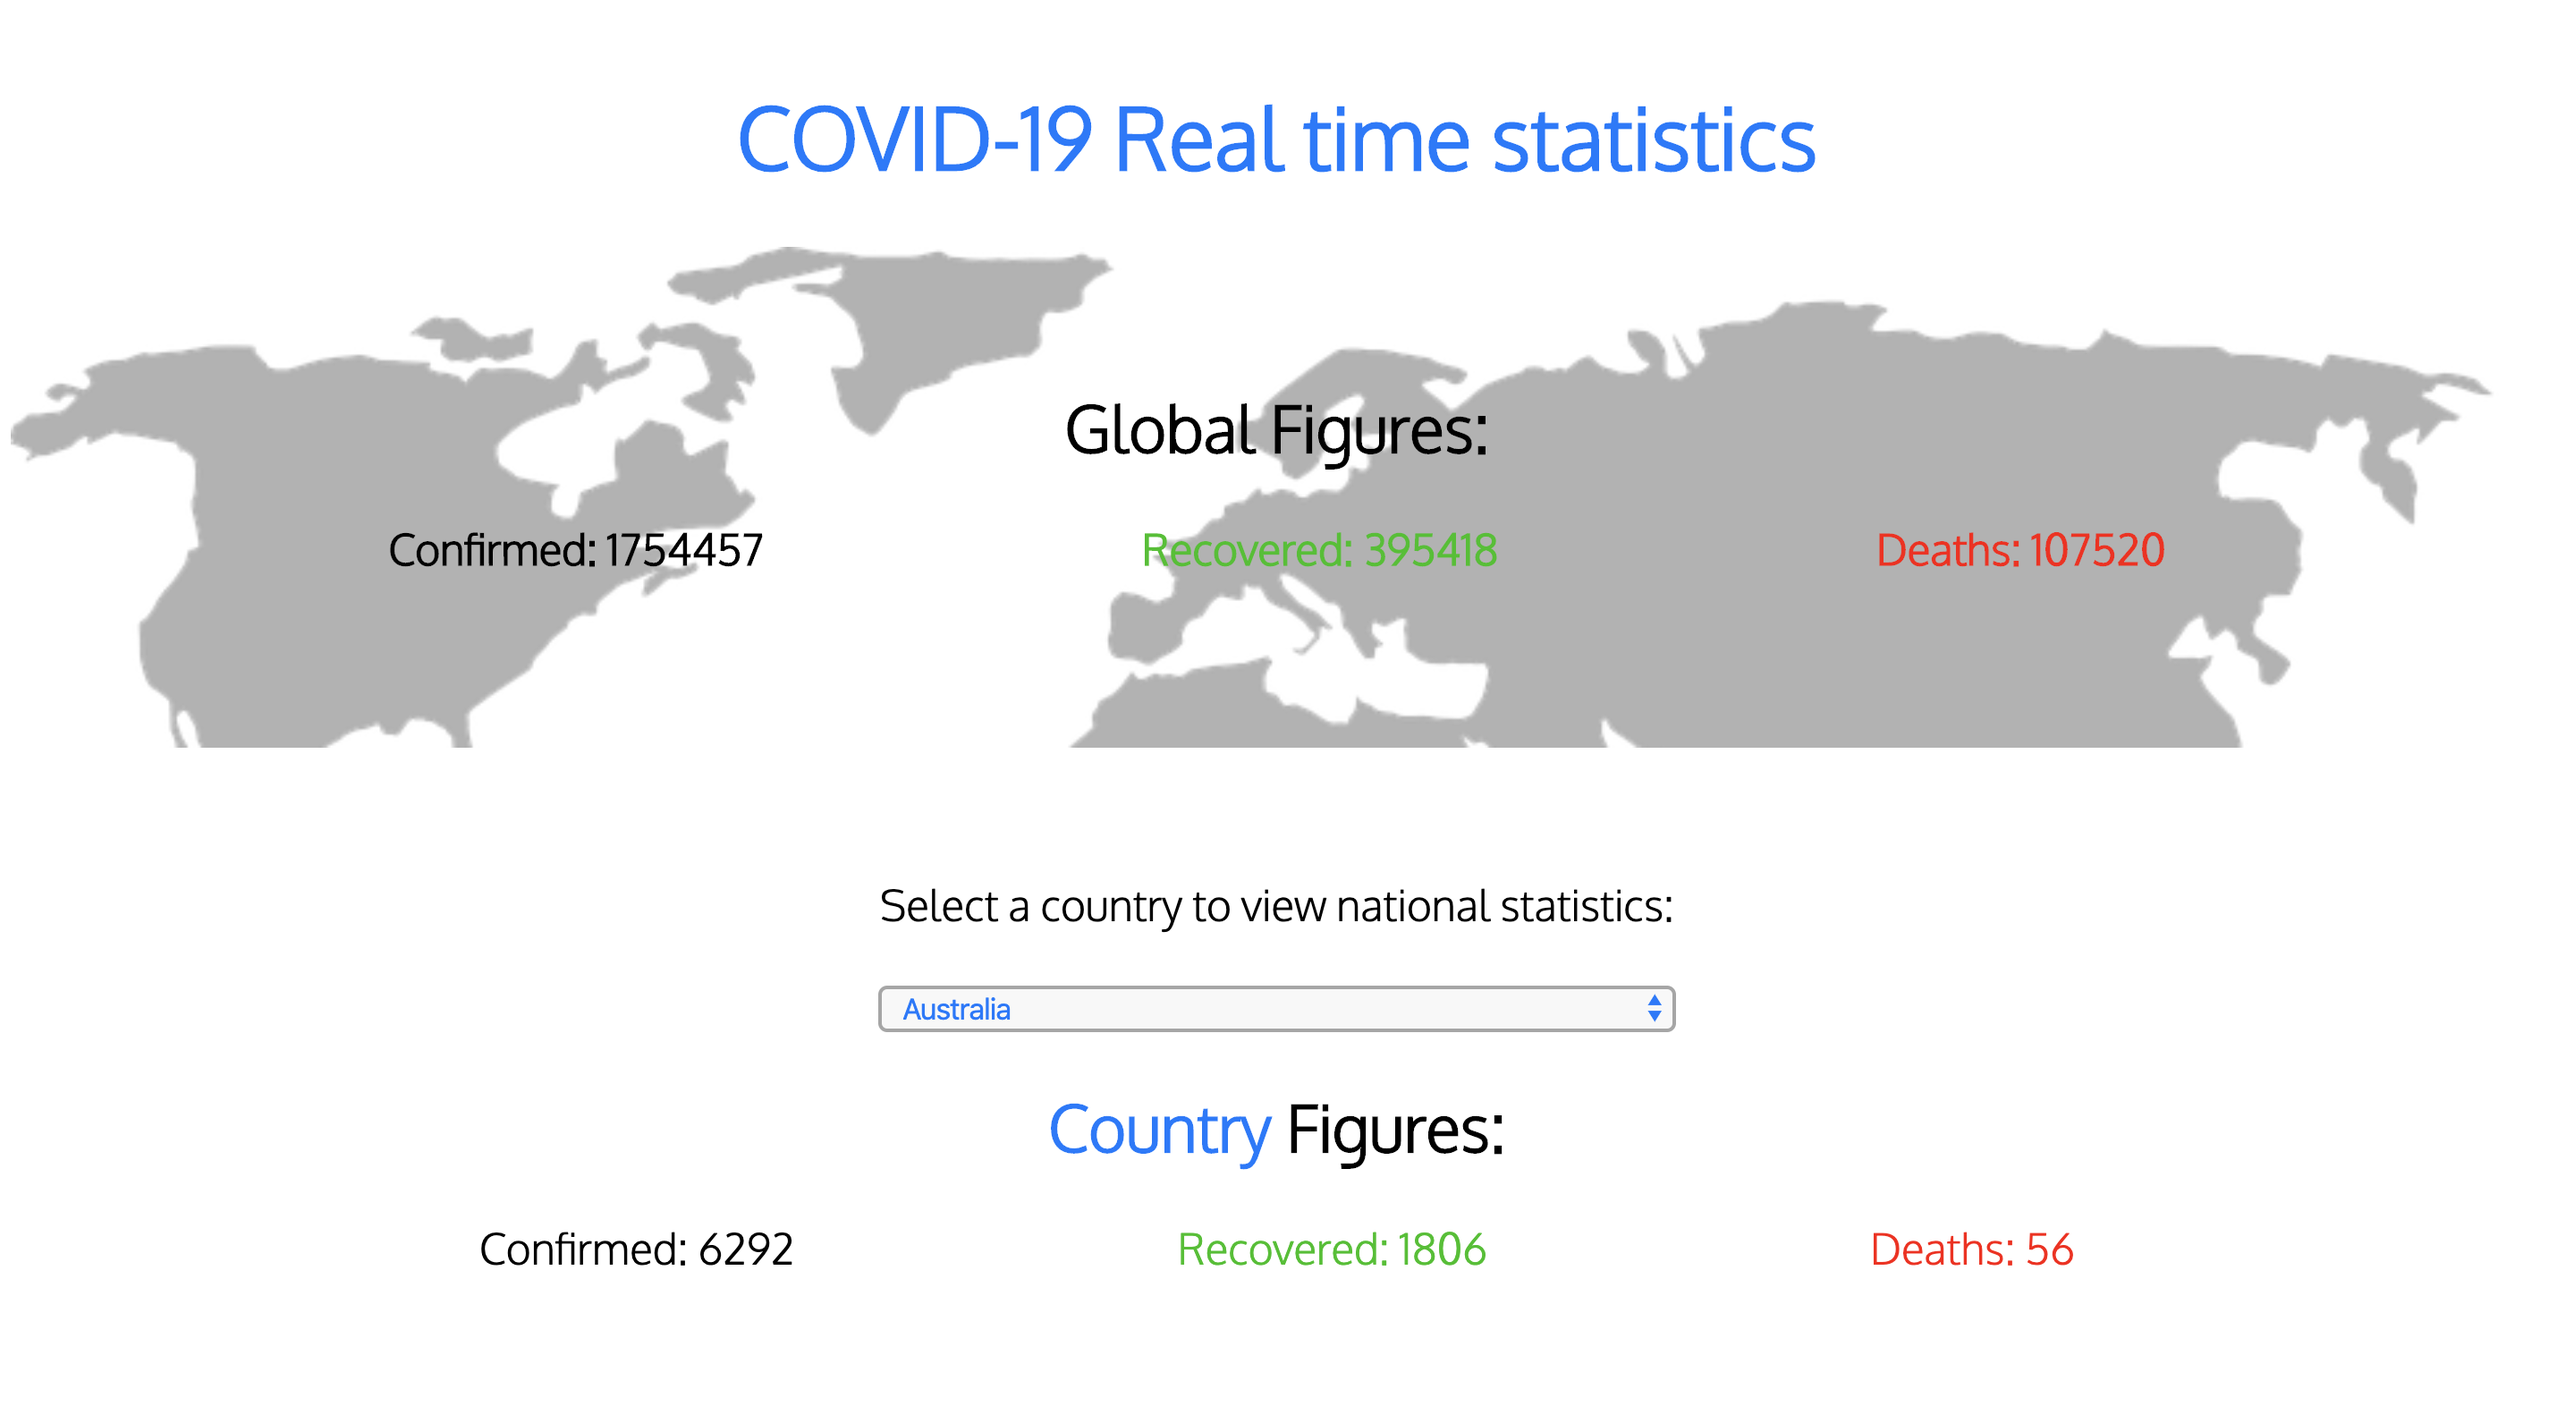
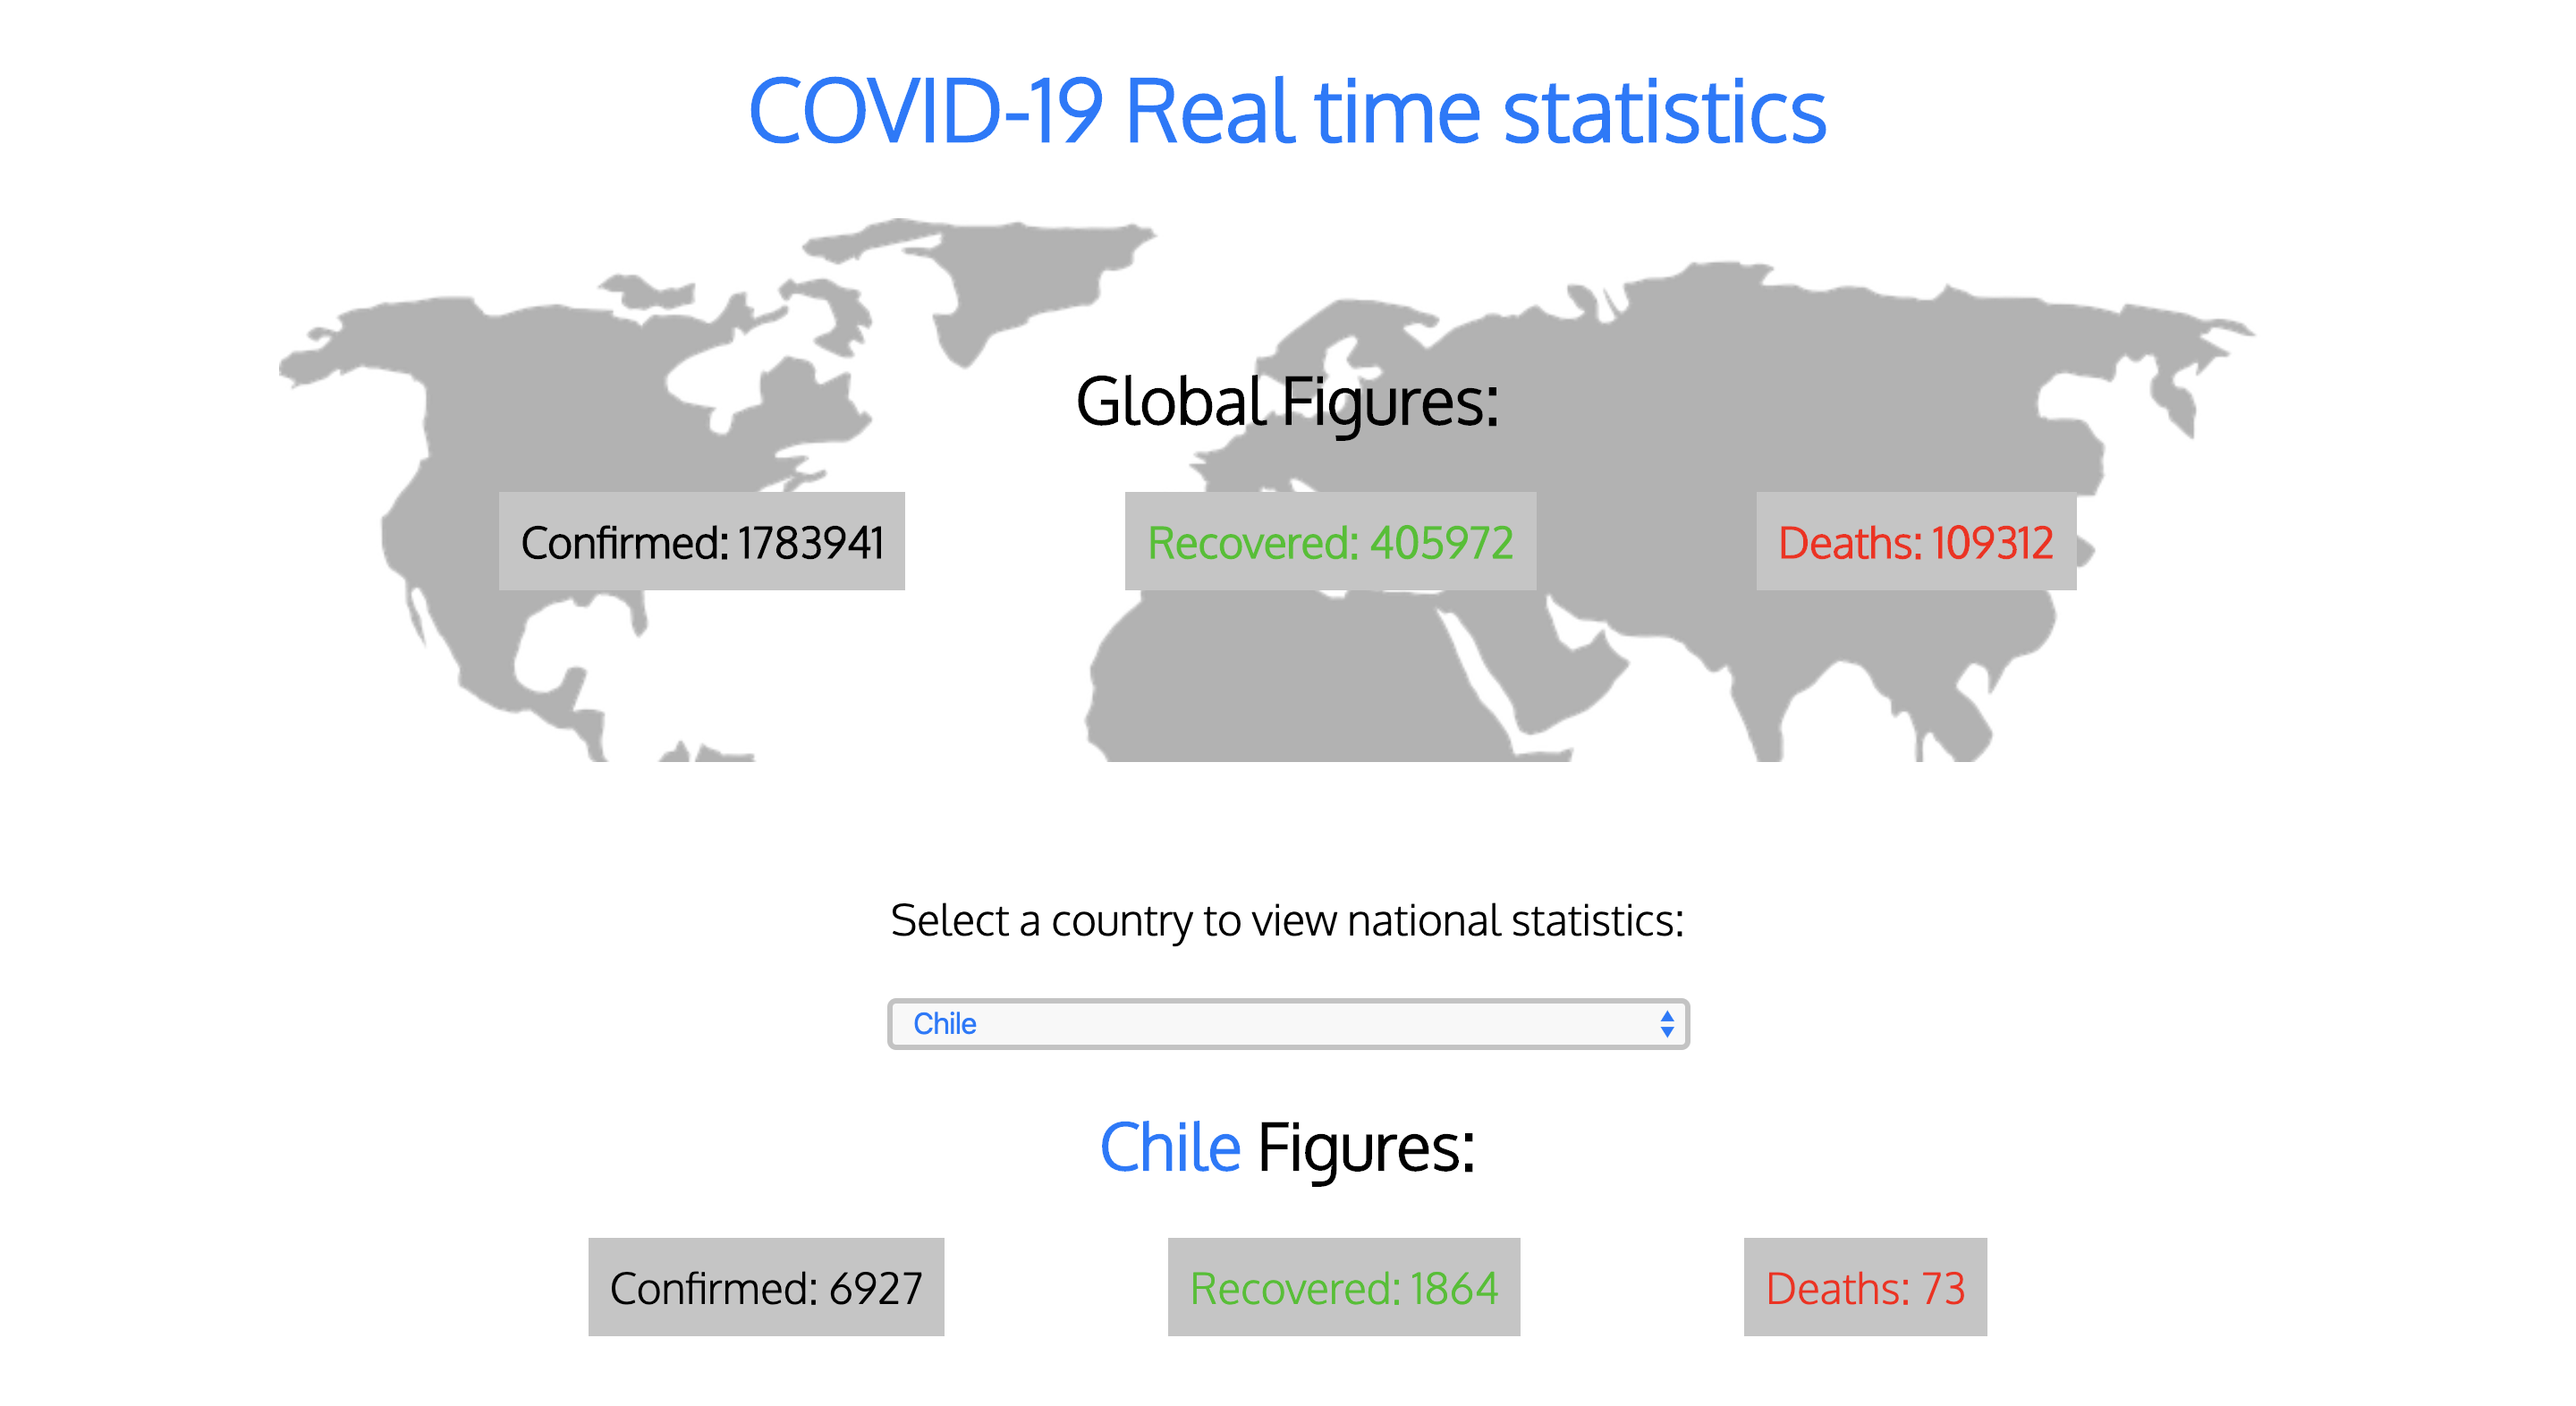
add styles, add component Figures

diff --git a/src/components/CountryData.jsx b/src/components/CountryData.jsx
@@ -1,25 +1,21 @@
 import React from "react";
 import { connect } from "react-redux";
 import { getCountryData } from "../actions";
+import Figures from "./Figures";
 
 class CountryData extends React.Component {
   render() {
     const { confirmed, recovered, deaths } = this.props.countryData;
-    if (!this.props.country) {
+    const { country } = this.props;
+    if (!country) {
       return <div className="select-country__choose">Select a country</div>;
     }
-    // TODO: Add confirmed, recovered, deaths as a component takes figs as props - with card-like styles
-    // TODO: set country figures </h2> to: ${countryName} figures
     return (
       <div>
         <h2>
-          <span className="text-blue">Country</span> Figures:
+          <span className="text-blue">{country}</span> Figures:
         </h2>
-        <div className="global-figs-flex">
-          <div>Confirmed: {confirmed}</div>
-          <div className="text-green">Recovered: {recovered}</div>
-          <div className="text-red">Deaths: {deaths}</div>
-        </div>
+        <Figures confirmed={confirmed} recovered={recovered} deaths={deaths} />
       </div>
     );
   }

diff --git a/src/components/Global.jsx b/src/components/Global.jsx
@@ -1,26 +1,23 @@
 import React from "react";
 import { getData } from "../actions";
 import { connect } from "react-redux";
-
+import Figures from "../components/Figures";
 class Global extends React.Component {
   componentDidMount() {
     this.props.getData();
   }
 
   render() {
+    const { globalData } = this.props;
     return (
       <div className="global-figs__component">
         <div className="global-figs__background text-bold">
           <h2>Global Figures:</h2>
-          <div className="global-figs-flex">
-            <div>Confirmed: {this.props.globalData.confirmed}</div>
-            <div className="text-green">
-              Recovered: {this.props.globalData.recovered}
-            </div>
-            <div className="text-red">
-              Deaths: {this.props.globalData.deaths}
-            </div>
-          </div>
+          <Figures
+            confirmed={globalData.confirmed}
+            recovered={globalData.recovered}
+            deaths={globalData.deaths}
+          />
         </div>
       </div>
     );

diff --git a/src/styles/styles.css b/src/styles/styles.css
@@ -35,11 +35,6 @@
 }
 
 /* GLOBAL FIGURES */
-.global-figs-flex {
-  display: flex;
-  flex-direction: row;
-  justify-content: space-evenly;
-}
 .global-figs__component {
   width: 100%;
 }
@@ -71,4 +66,25 @@
 }
 .select-country__select-box {
   padding: 0.3em;
+  border: 2px solid rgb(195, 195, 195);
+}
+.select-country__select-box:focus {
+  outline: none;
+}
+
+/* FIGURES */
+.figures__component {
+  display: flex;
+  flex-direction: row;
+  justify-content: space-evenly;
+}
+.figures__card {
+  background: rgb(197, 197, 197);
+  padding: 0.5em;
+}
+
+@media screen and (min-width: 900px) {
+  .container {
+    margin: 0 10vw;
+  }
 }

diff --git a/src/components/Figures.jsx b/src/components/Figures.jsx
@@ -1,0 +1,13 @@
+import React from "react";
+
+const Figures = ({ confirmed, recovered, deaths }) => {
+  return (
+    <div className="figures__component">
+      <div className="figures__card">Confirmed: {confirmed}</div>
+      <div className="figures__card text-green">Recovered: {recovered}</div>
+      <div className="figures__card text-red">Deaths: {deaths}</div>
+    </div>
+  );
+};
+
+export default Figures;

diff --git a/src/components/SelectCountry.jsx b/src/components/SelectCountry.jsx
@@ -31,10 +31,10 @@ class SelectCountry extends React.Component {
   };
 
   handleCountrySelect = e => {
-    this.setState({ value: e.target.value }, this.handleSubmit);
+    this.setState({ value: e.target.value }, this.handleCountrySelectSubmit);
   };
 
-  handleSubmit = () => {
+  handleCountrySelectSubmit = () => {
     this.props.getCountryData(this.state.value);
   };
 

diff --git a/src/api/COVID_api.js b/src/api/COVID_api.js
@@ -3,5 +3,3 @@ import axios from "axios";
 export default axios.create({
   baseURL: "https://covid19.mathdro.id/api",
 });
-
-// TODO: add Redux code and configure actions to fetch different search queries
